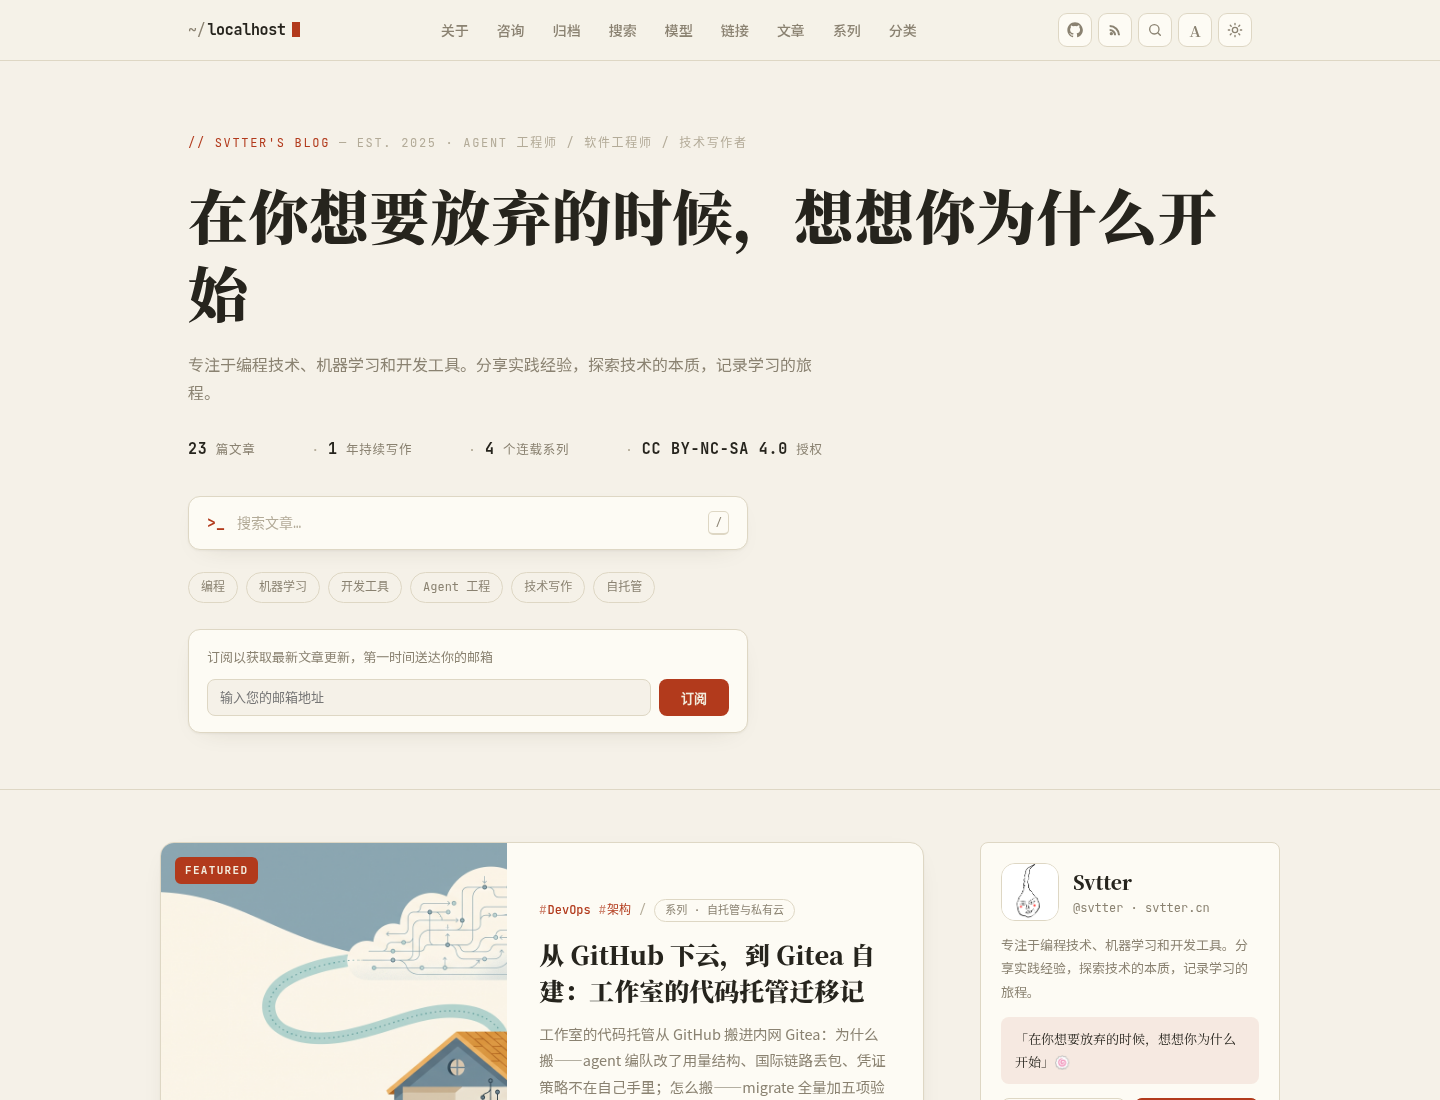
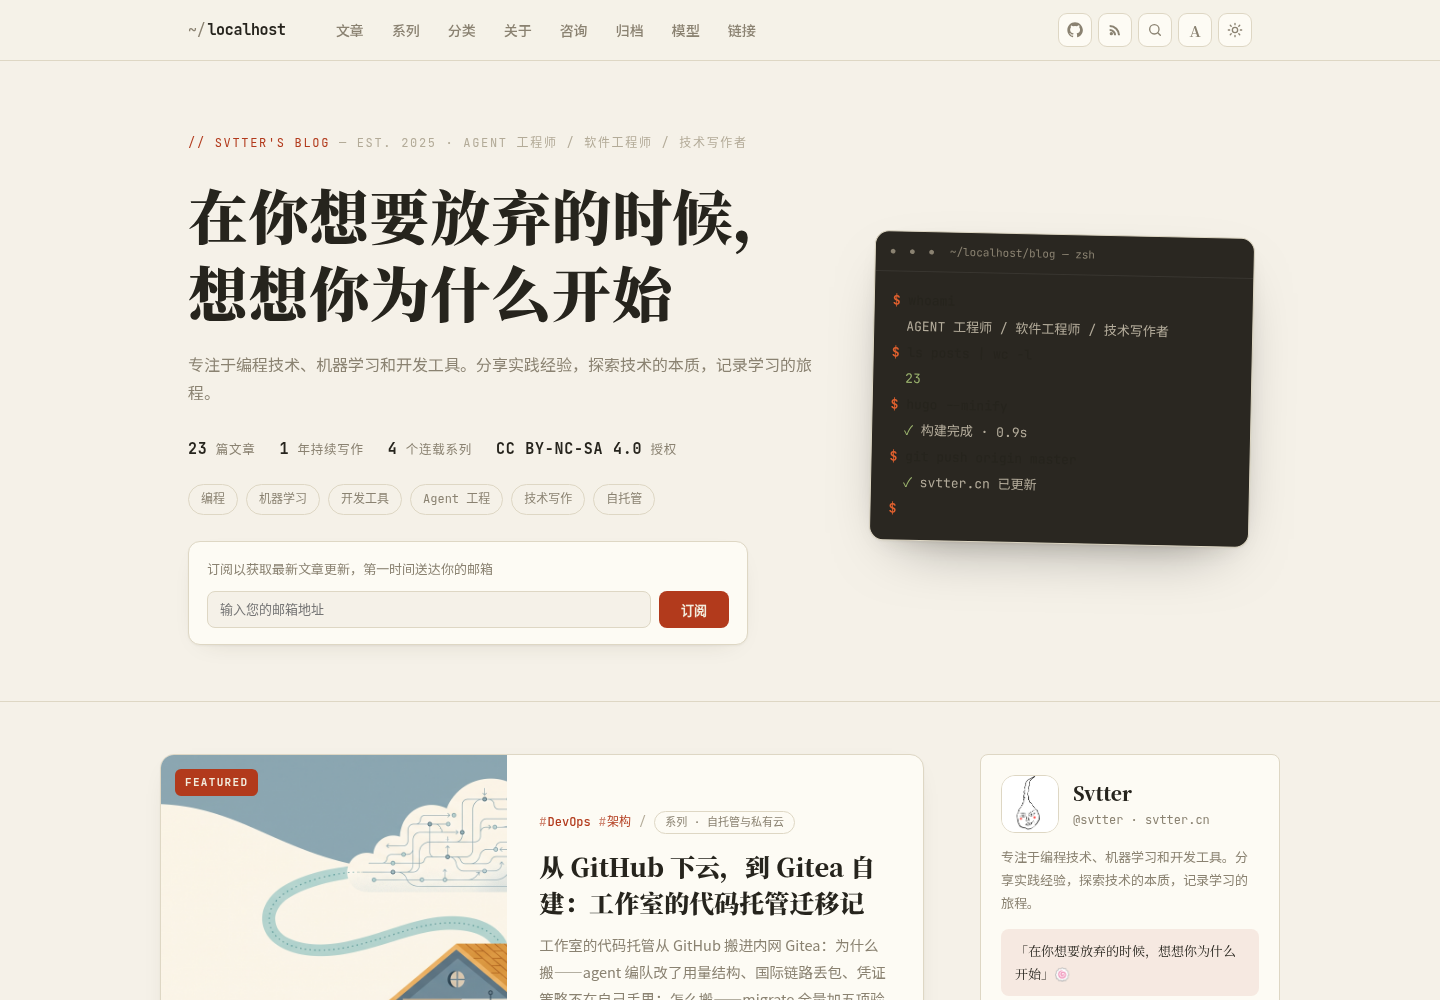
feat: Hero 右侧补装饰终端面板（实时站点数据 + 闪烁光标，支持 params.hero.image 换配图），统计条去圆点分隔

diff --git a/layouts/partials/hero.html b/layouts/partials/hero.html
@@ -1,33 +1,55 @@
 {{ $host := (urls.Parse site.BaseURL).Hostname }}
 {{ $seriesCount := len site.Taxonomies.series }}
-{{ $catsCount := len site.Taxonomies.categories }}
 {{ $postCount := len (where site.RegularPages "Section" "in" site.MainSections) }}
 {{ $years := (where site.RegularPages "Section" "in" site.MainSections).GroupByDate "2006" "asc" }}
 {{ $minYear := "" }}{{ range $years }}{{ if or (not $minYear) (lt .Key $minYear) }}{{ $minYear = .Key }}{{ end }}{{ end }}
 {{ if or (not $minYear) (lt (int $minYear) 2000) }}{{ $minYear = string now.Year }}{{ end }}
 <section class="hero">
-  <div class="wrap">
-    <div class="kicker">// {{ site.Title | upper }} <span class="dim">— EST. {{ $minYear }} · {{ i18n "roles" }}</span></div>
-    <h1>{{ site.Params.motto | default (i18n "default_motto") }}</h1>
-    <p class="sub">{{ site.Params.description }}</p>
+  <div class="wrap hero-grid">
+    <div class="hero-left">
+      <div class="kicker">// {{ site.Title | upper }} <span class="dim">— EST. {{ $minYear }} · {{ i18n "roles" }}</span></div>
+      <h1>{{ site.Params.motto | default (i18n "default_motto") }}</h1>
+      <p class="sub">{{ site.Params.description }}</p>
 
-    <div class="hero-stats">
-      <span class="stat"><b>{{ $postCount }}</b> {{ i18n "stats_posts" }}</span>
-      <span class="stat"><span class="dot">·</span> <b>{{ sub now.Year (int $minYear) }}</b> {{ i18n "stats_years" }}</span>
-      <span class="stat"><span class="dot">·</span> <b>{{ $seriesCount }}</b> {{ i18n "stats_series" }}</span>
-      <span class="stat"><span class="dot">·</span> <b>{{ site.Params.license | default "CC BY-NC-SA" }}</b> {{ i18n "stats_license" }}</span>
+      <div class="hero-stats">
+        <span class="stat"><b>{{ $postCount }}</b> {{ i18n "stats_posts" }}</span>
+        <span class="stat"><b>{{ sub now.Year (int $minYear) }}</b> {{ i18n "stats_years" }}</span>
+        <span class="stat"><b>{{ $seriesCount }}</b> {{ i18n "stats_series" }}</span>
+        <span class="stat"><b>{{ site.Params.license | default "CC BY-NC-SA" }}</b> {{ i18n "stats_license" }}</span>
+      </div>
+
+      <div class="topics">
+        {{ range site.Params.topics }}<span class="topic">{{ . }}</span>{{ end }}
+      </div>
+
+      <div class="newsletter" id="newsletter">
+        <span class="nl-label">{{ site.Params.newsletter.label | default (i18n "newsletter_label") }}</span>
+        <form class="nl-form" action="{{ site.Params.newsletter.action | default "#" }}">
+          <input type="email" placeholder="输入您的邮箱地址" required>
+          <button class="nl-btn" type="submit">{{ i18n "subscribe" }}</button>
+        </form>
+      </div>
     </div>
 
-    <div class="topics">
-      {{ range site.Params.topics }}<span class="topic">{{ . }}</span>{{ end }}
-    </div>
-
-    <div class="newsletter" id="newsletter">
-      <span class="nl-label">{{ site.Params.newsletter.label | default (i18n "newsletter_label") }}</span>
-      <form class="nl-form" action="{{ site.Params.newsletter.action | default "#" }}">
-        <input type="email" placeholder="输入您的邮箱地址" required>
-        <button class="nl-btn" type="submit">{{ i18n "subscribe" }}</button>
-      </form>
+    <div class="hero-right">
+      {{ with site.Params.hero.image }}
+      <img class="hero-img" src="{{ . }}" alt="">
+      {{ else }}
+      <div class="term" aria-hidden="true">
+        <div class="term-bar"><span class="dots">● ● ●</span><span>~/{{ $host }}/blog — zsh</span></div>
+        <div class="term-body">
+          <div class="term-line"><span class="p">$</span> whoami</div>
+          <div class="term-line out">{{ i18n "roles" }}</div>
+          <div class="term-line"><span class="p">$</span> ls posts | wc -l</div>
+          <div class="term-line out"><span class="g">{{ $postCount }}</span></div>
+          <div class="term-line"><span class="p">$</span> hugo --minify</div>
+          <div class="term-line out"><span class="g">✓</span> {{ i18n "term_built" }}</div>
+          <div class="term-line"><span class="p">$</span> git push origin master</div>
+          <div class="term-line out"><span class="g">✓</span> svtter.cn {{ i18n "term_updated" }}</div>
+          <div class="term-line"><span class="p">$</span> <span class="term-cursor"></span></div>
+        </div>
+      </div>
+      {{ end }}
     </div>
   </div>
 </section>

diff --git a/assets/css/main.css b/assets/css/main.css
@@ -1515,3 +1515,43 @@ body { overflow-wrap: break-word; }
   font-size: .6875rem;
   color: var(--faint);
 }
+
+/* ------------------------------------------------------------
+   Hero 右侧：装饰终端（或 params.hero.image 配图）
+   ------------------------------------------------------------ */
+.hero-grid { display: grid; grid-template-columns: minmax(0, 1fr) 380px; gap: 56px; align-items: center; }
+.hero-right { min-width: 0; }
+.hero-img { width: 100%; border-radius: 14px; border: 1px solid var(--line); box-shadow: var(--shadow); }
+
+.term {
+  background: var(--code-bg);
+  border: 1px solid var(--line);
+  border-radius: 14px;
+  box-shadow: var(--shadow), 0 24px 64px -32px rgba(0, 0, 0, .5);
+  overflow: hidden;
+  transform: rotate(1.2deg);
+}
+.term-bar {
+  display: flex; align-items: center; gap: 12px;
+  padding: 10px 14px;
+  border-bottom: 1px solid rgba(255, 255, 255, .07);
+  font-family: var(--mono); font-size: .6875rem; color: #8a8271;
+}
+.term-bar .dots { letter-spacing: 3px; }
+.term-body { padding: 16px 18px 18px; font-family: var(--mono); font-size: .8125rem; line-height: 2; }
+.term-line .p { color: #e0602e; font-weight: 700; }
+.term-line.out { color: #b5ad9c; padding-left: 14px; }
+.term-line .g { color: #9cb56e; }
+.term-cursor {
+  display: inline-block;
+  width: 8px; height: 15px;
+  background: #e0602e;
+  vertical-align: -2px;
+  animation: blink 1.1s steps(1) infinite;
+}
+
+@media (max-width: 1020px) {
+  .hero-grid { grid-template-columns: 1fr; gap: 0; }
+  .hero-right { display: none; }
+}
+.hero-stats { gap: 8px 24px; }
